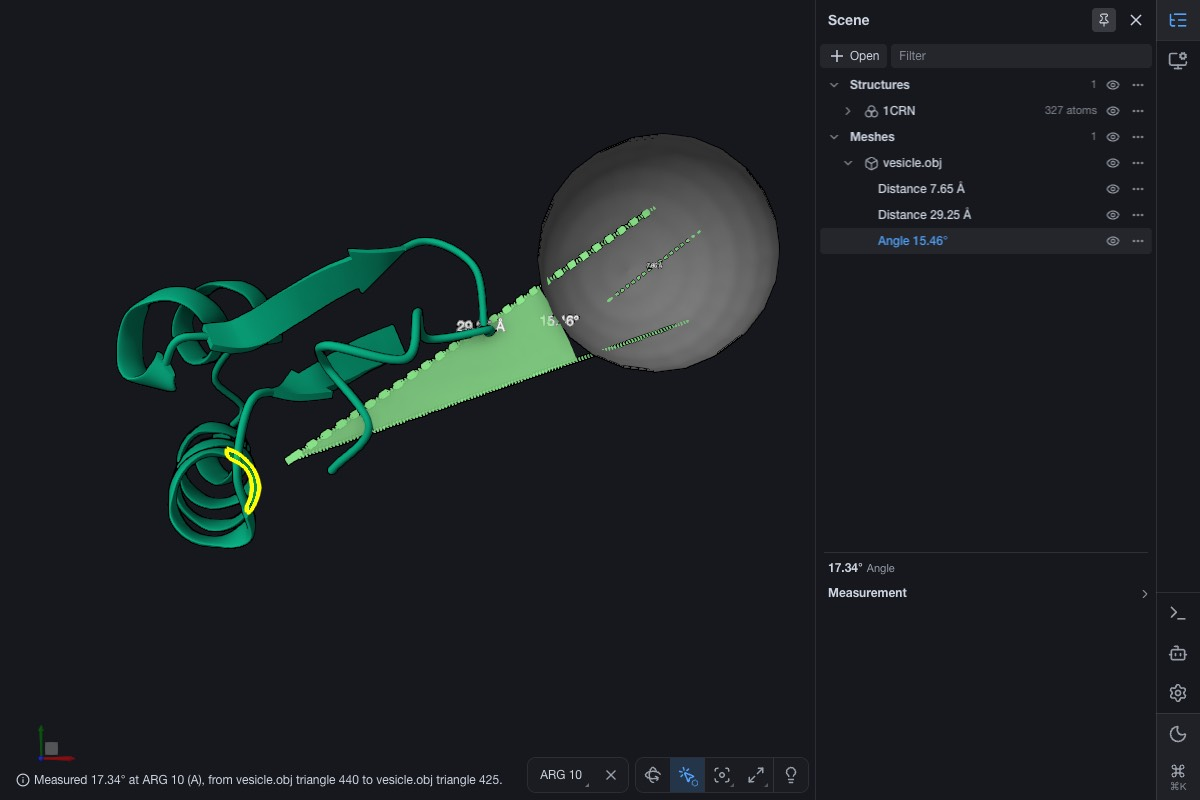
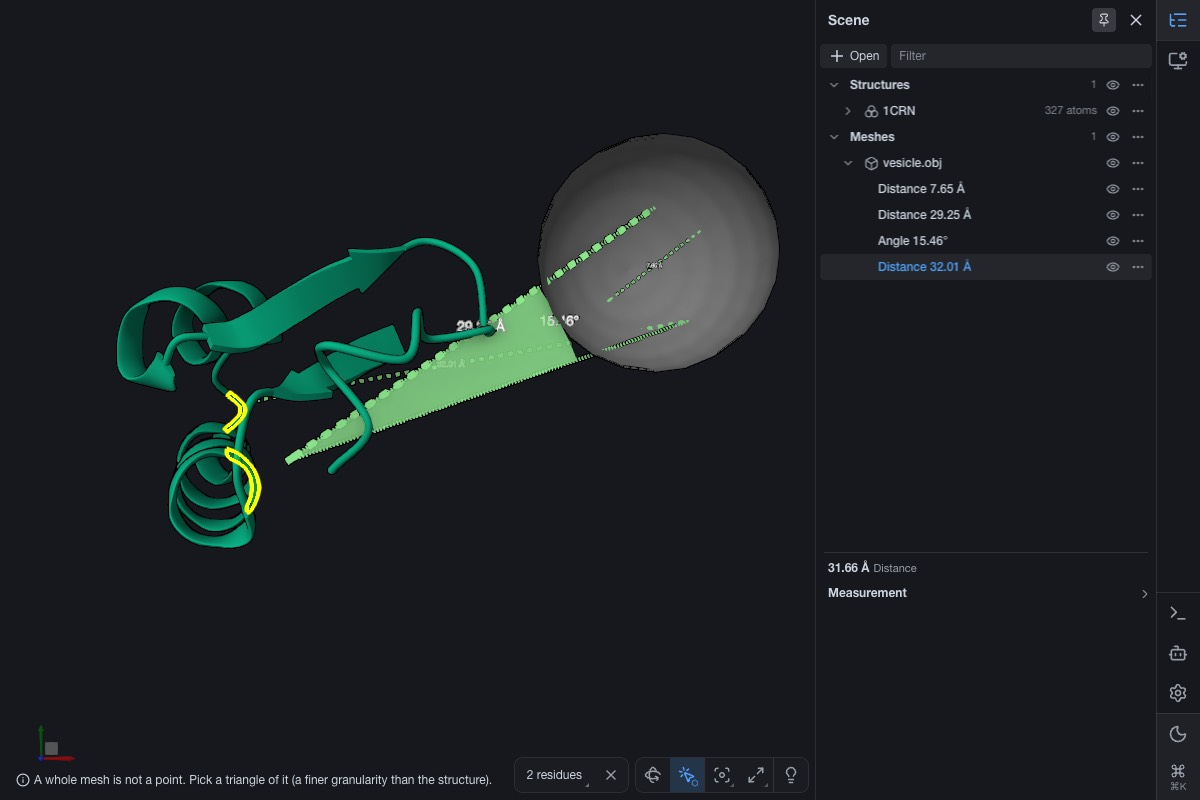
prism-me: progress: browser recheck on the final head, both backends, screenshots refreshed

diff --git a/apps/prism-me/progress/2026-10-31-mesh-measure.md b/apps/prism-me/progress/2026-10-31-mesh-measure.md
@@ -168,6 +168,14 @@ once).
 | ![angle](2026-10-31-mesh-measure/webgpu-4-angle.jpg)               | ![angle](2026-10-31-mesh-measure/webgl2-4-angle.jpg)               |
 | ![moved](2026-10-31-mesh-measure/webgpu-5-moved.jpg)               | ![moved](2026-10-31-mesh-measure/webgl2-5-moved.jpg)               |
 
+| ![unpaired point completed](2026-10-31-mesh-measure/webgpu-6-unpaired.jpg) |
+![unpaired point completed](2026-10-31-mesh-measure/webgl2-6-unpaired.jpg) |
+
+Rechecked on the final head (after the third review, both backends, port 1364): the same values (7.65 Å, 25.67 Å,
+17.34°; moved 8 Å: 29.25 Å, 15.46°); after the angle, the unpaired triangle 425 and the next click (GLY 20) make 31.66 Å
+(Grok's `1a37f84d8`); the angle keeps each point's row (the mesh's, CRAMBIN's, the mesh's: `d47a9e7df`); a ⌘+click at
+the `structure` granularity on the mesh makes nothing (`0e071b62e`).
+
 A million triangles, one hovered: ![1 M](2026-10-31-mesh-measure/webgpu-million-triangles.jpg)
 
 ## Library or prism-me
